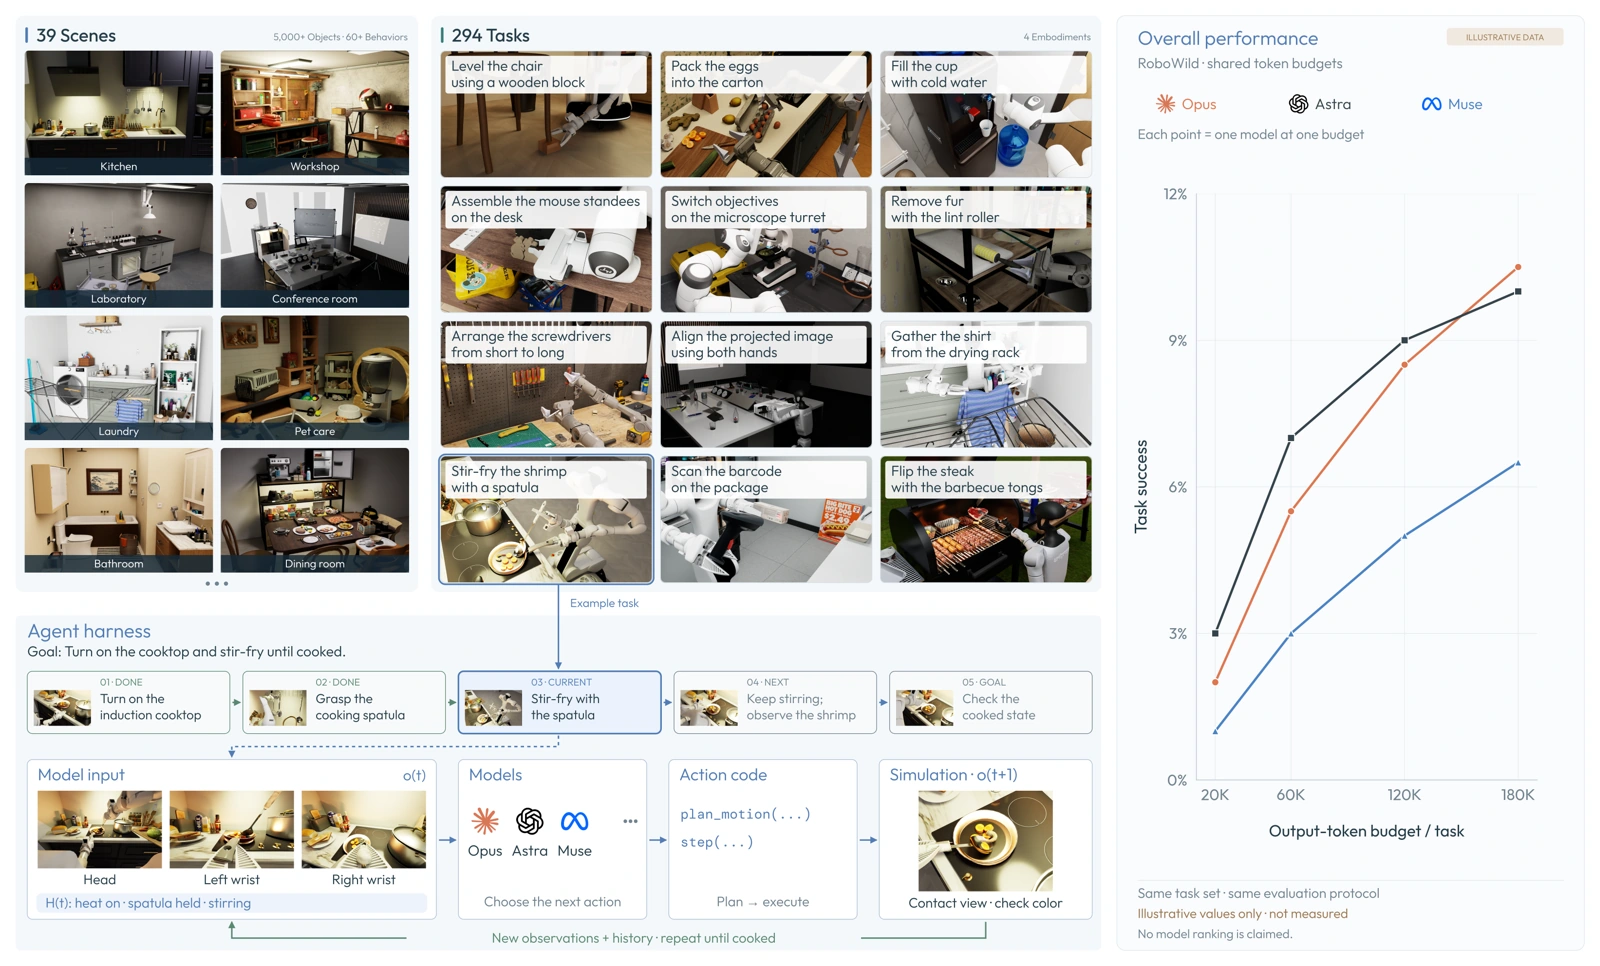
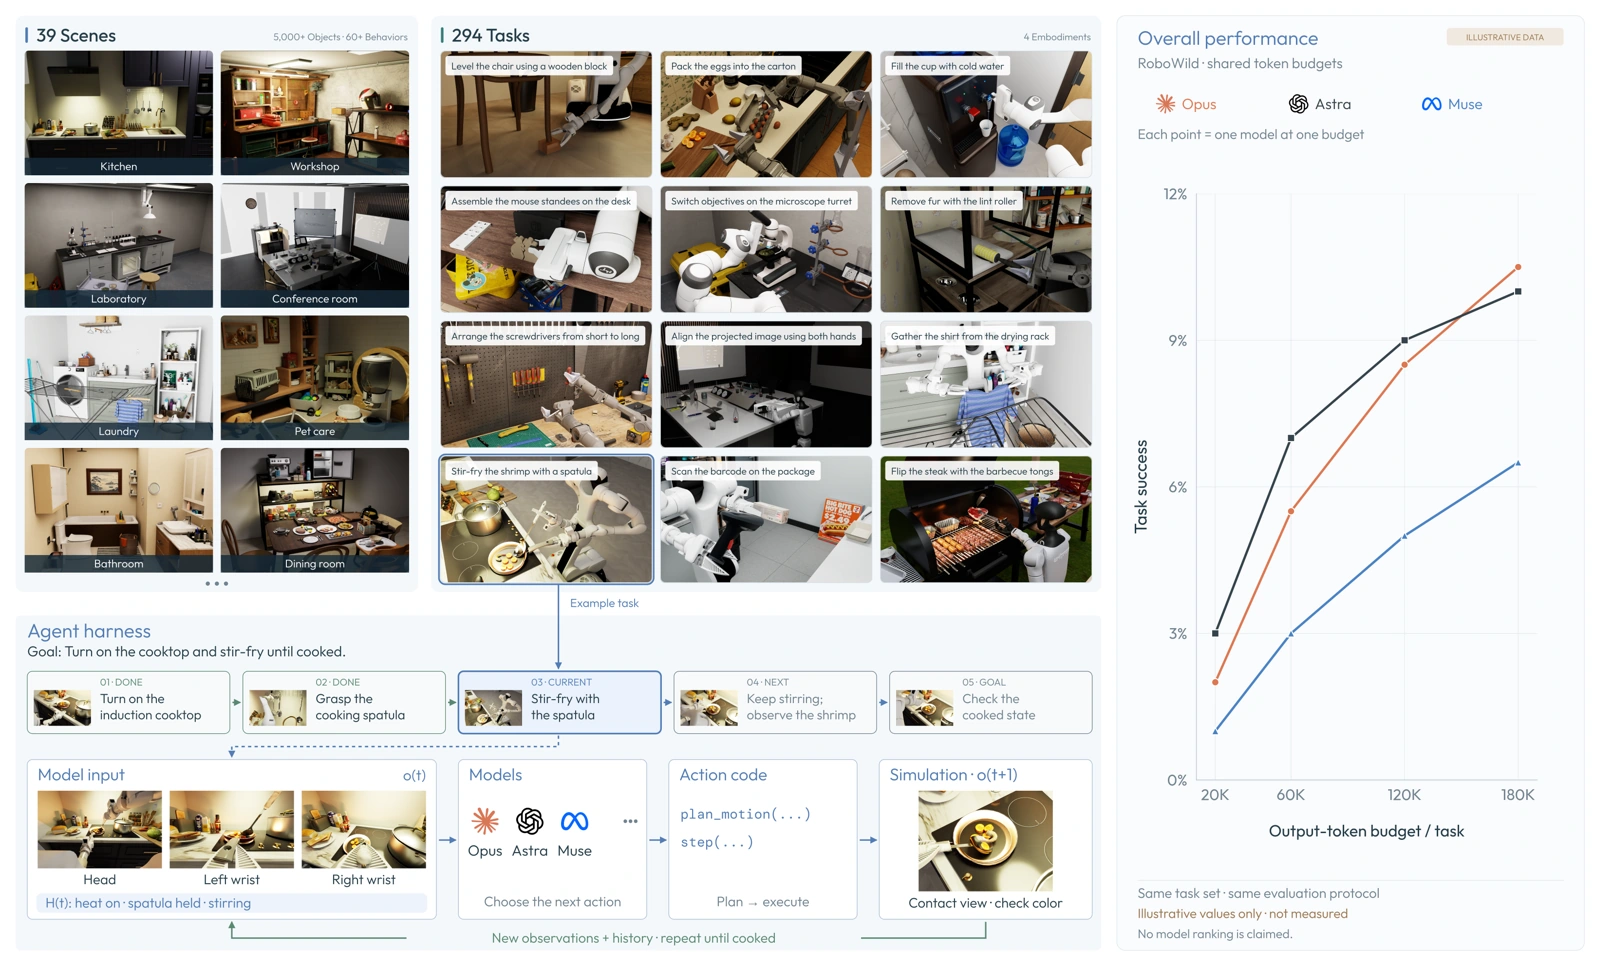
Publish A with single-line task captions

diff --git a/data.js b/data.js
@@ -1,1 +1,1 @@
[2 lines of base64/hex data omitted]

diff --git a/index.html b/index.html
@@ -1,4 +1,4 @@
 <!doctype html>
 <html lang="zh-CN"><head><meta charset="utf-8"><meta name="viewport" content="width=device-width,initial-scale=1"><meta name="description" content="RoboWild figure library. Current figures synchronized from Google Slides, with full-resolution PNG downloads."><title>RoboWild · Figure Library</title><link rel="stylesheet" href="style.css"></head>
 <body><header><a class="brand" href="./">Robo<span>Wild</span><small>FIGURE LIBRARY</small></a><div class="source"><span class="dot"></span>Google Slides 与衍生版本<small id="updated"></small></div></header>
-<main><aside><div class="list-heading"><h1>全部版本</h1><span id="count"></span></div><p class="hint">Slides 原稿 + 新增设计版本</p><nav id="versions" aria-label="图稿版本"></nav></aside><section class="viewer" aria-labelledby="title"><div class="viewer-heading"><div><p id="page-label" class="eyebrow"></p><h2 id="title"></h2><p id="dimensions" class="hint"></p></div><div class="actions"><a id="open" target="_blank" rel="noopener">打开原图 ↗</a><a id="download" class="primary" download>下载 PNG ↓</a></div></div><a id="image-link" target="_blank" rel="noopener" title="打开原尺寸 PNG"><img id="figure" alt="" width="3200" height="3390"></a><footer><span>原稿同步保留 · 衍生版本独立展示</span><span id="position"></span></footer></section></main><noscript>请启用 JavaScript 查看和切换全部图稿。</noscript><script src="data.js?v=deab88b10f2c31dc"></script><script src="app.js?v=deab88b10f2c31dc"></script></body></html>
+<main><aside><div class="list-heading"><h1>全部版本</h1><span id="count"></span></div><p class="hint">Slides 原稿 + 新增设计版本</p><nav id="versions" aria-label="图稿版本"></nav></aside><section class="viewer" aria-labelledby="title"><div class="viewer-heading"><div><p id="page-label" class="eyebrow"></p><h2 id="title"></h2><p id="dimensions" class="hint"></p></div><div class="actions"><a id="open" target="_blank" rel="noopener">打开原图 ↗</a><a id="download" class="primary" download>下载 PNG ↓</a></div></div><a id="image-link" target="_blank" rel="noopener" title="打开原尺寸 PNG"><img id="figure" alt="" width="3200" height="3390"></a><footer><span>原稿同步保留 · 衍生版本独立展示</span><span id="position"></span></footer></section></main><noscript>请启用 JavaScript 查看和切换全部图稿。</noscript><script src="data.js?v=57842d8c82f2d434"></script><script src="app.js?v=57842d8c82f2d434"></script></body></html>
